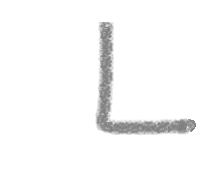
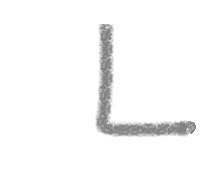
Scale TA section down

diff --git a/static/index.css b/static/index.css
@@ -214,7 +214,8 @@ body {
 #my-tas {
 	display: flex;
 	margin-top: -18px;
-	margin-bottom: 46%;
+	margin-bottom: 44%;
+	transform: scale(0.95, 0.95);
 }
 
 
@@ -230,7 +231,7 @@ body {
 	position: absolute;
 	font-family: "DkNouveauCrayon" !important;
 	color: #6f6f6f;
-	margin-top: 100px;
+	margin-top: 88px;
 	margin-left: 140px;
 }
 
